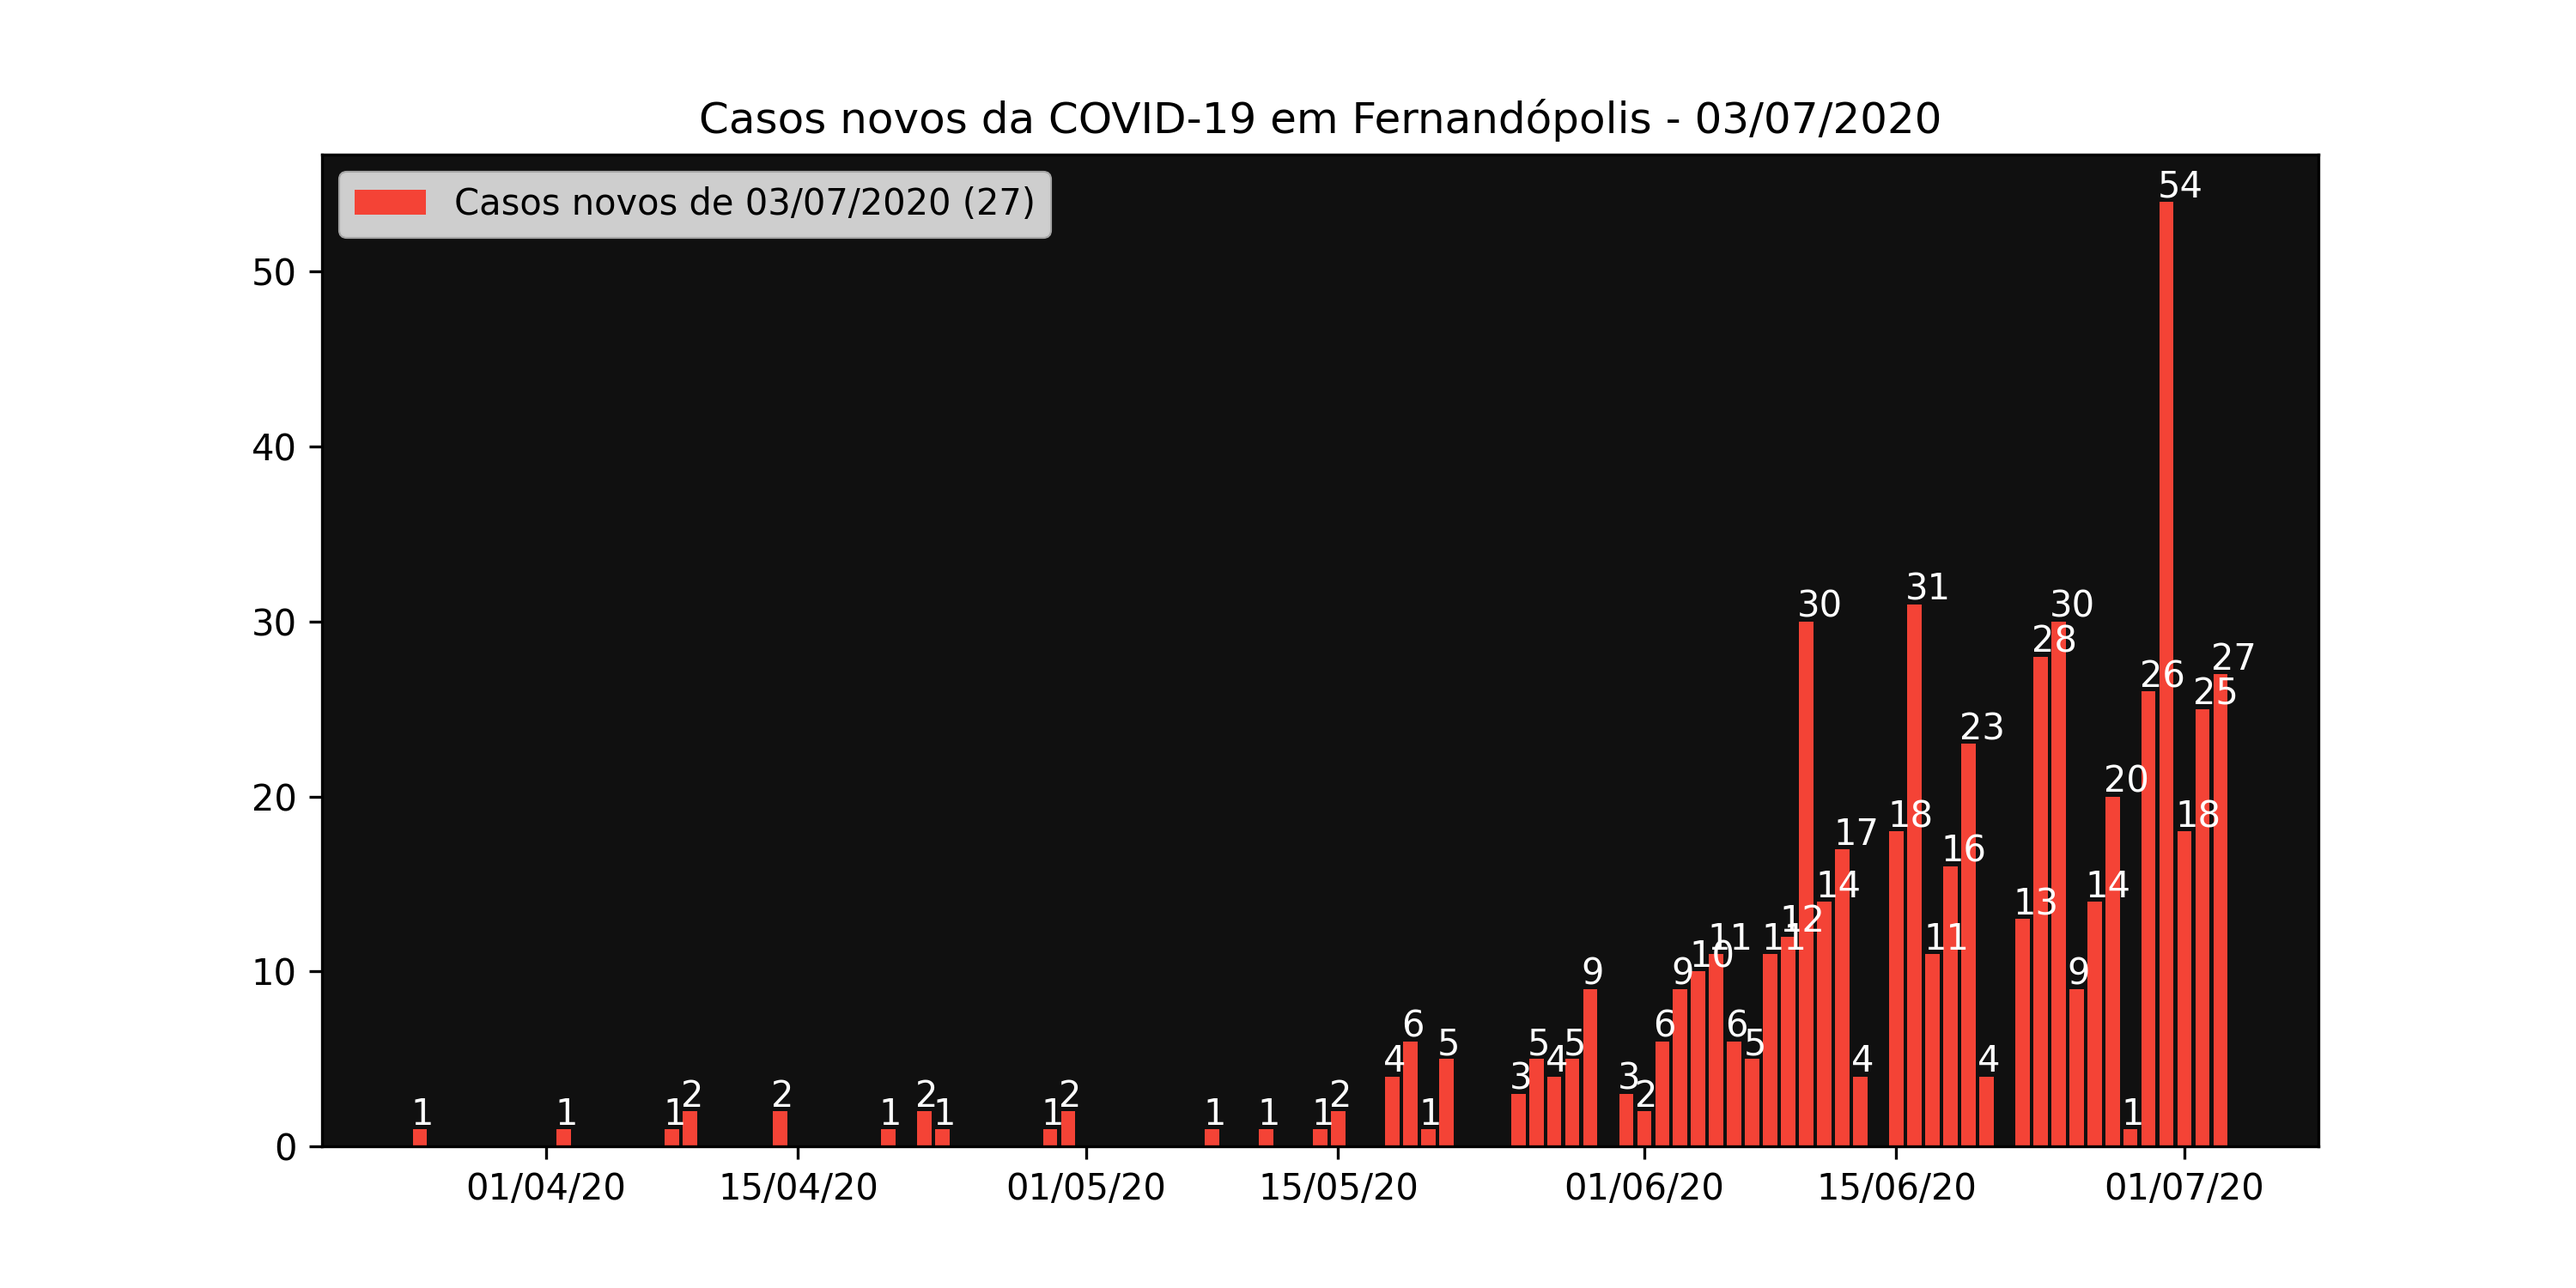
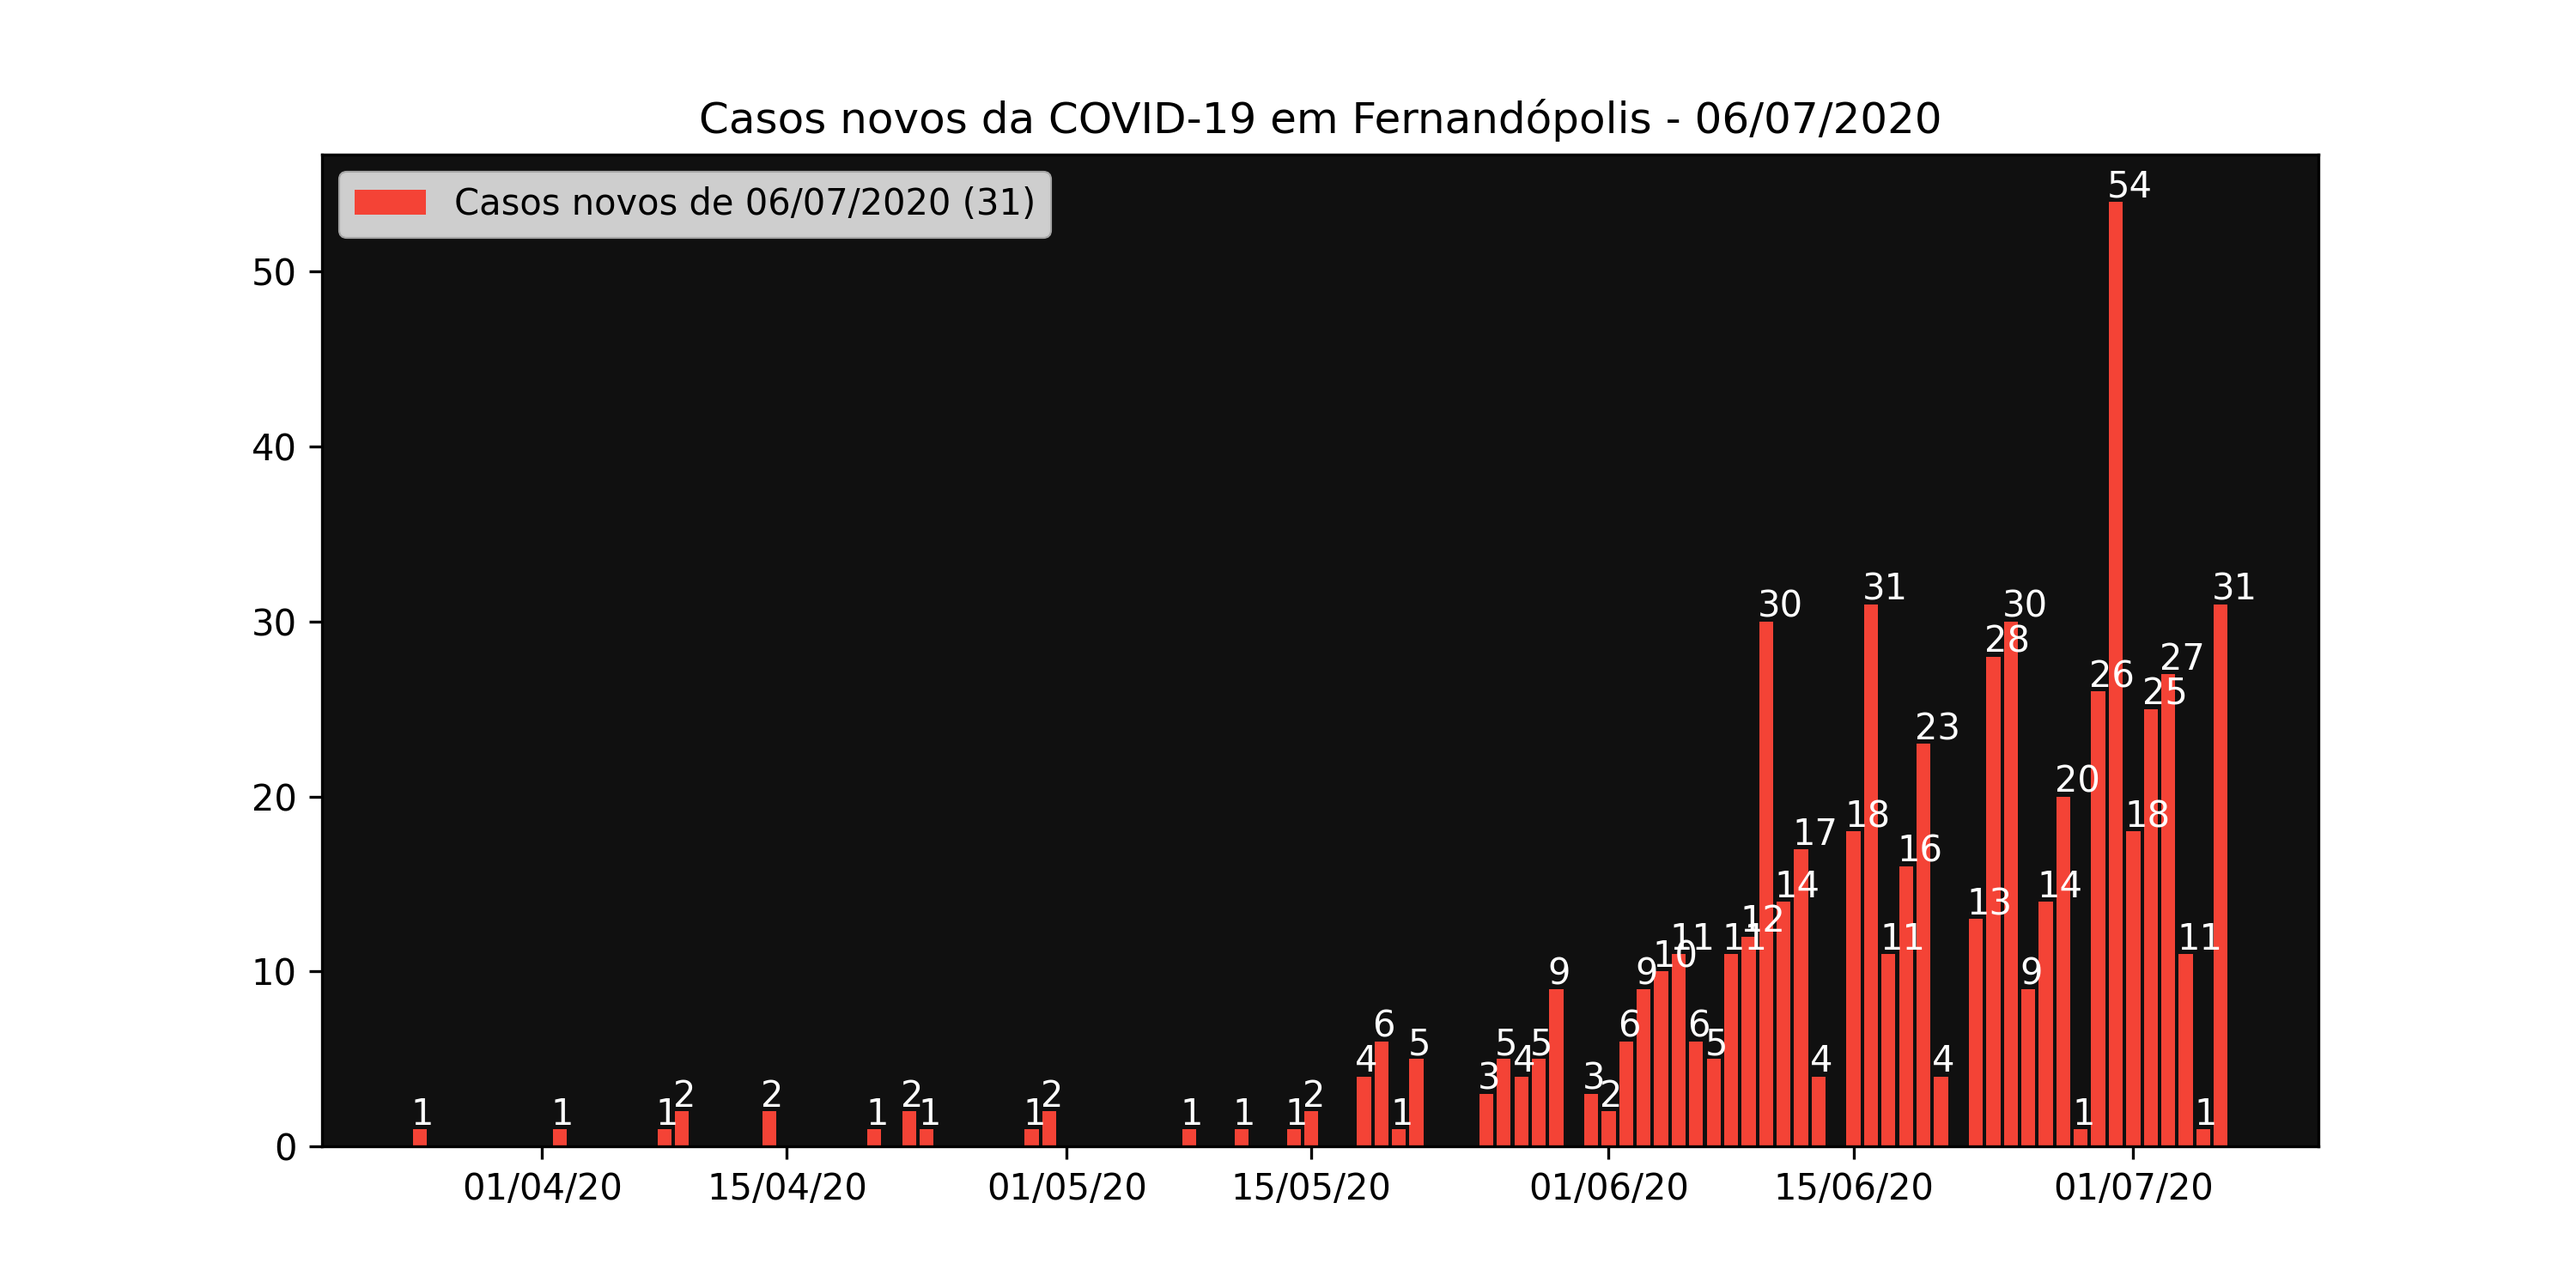
atualização seg 06 jul 2020 19:37:53 -03

diff --git a/README.md b/README.md
@@ -2,6 +2,8 @@
 
 Repositório público para a divulgação dos casos da COVID-19 de Fernandópolis / SP.
 
+Atualizado de Segunda a Sexta por volta das 19h.
+
 Os dados aqui apresentados são retirados dos boletins epidemiológicos publicados pela prefeitura municipal na sua página do Facebook e por isso apresentam um atraso na sua atualização. Os gráficos gerados pelo script em Python servem apenas de referência, como uma forma de visualização gráfica dos dados já apresentados pela prefeitura. Como já esclarecido na licença, todo o conteúdo desse repositório é de domínio público e pode ser copiado, alterado e republicado livremente.
 
 ## Gráficos
